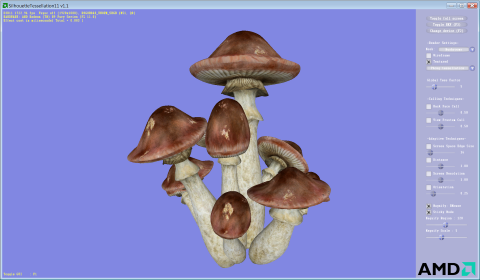
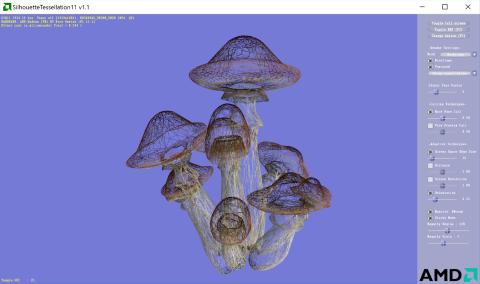
Update thumbnail

Changed region(s): [[0.0, 0.0, 1.0, 1.0]]

diff --git a/README.md b/README.md
@@ -1,5 +1,5 @@
 # AMD Tessellation Sample
-<img src="silhouettetessellation11/media/Thumbnail.png" width="480" height="280" />
+<img src="silhouettetessellation11/media/Thumbnail.png" width="480" height="284" />
 
 The SilhouetteTessellation11 DirectX 11 sample implements PN Triangles and Phong tessellation. It also shows how to optimize performance by using adaptive tessellation techniques.
 
